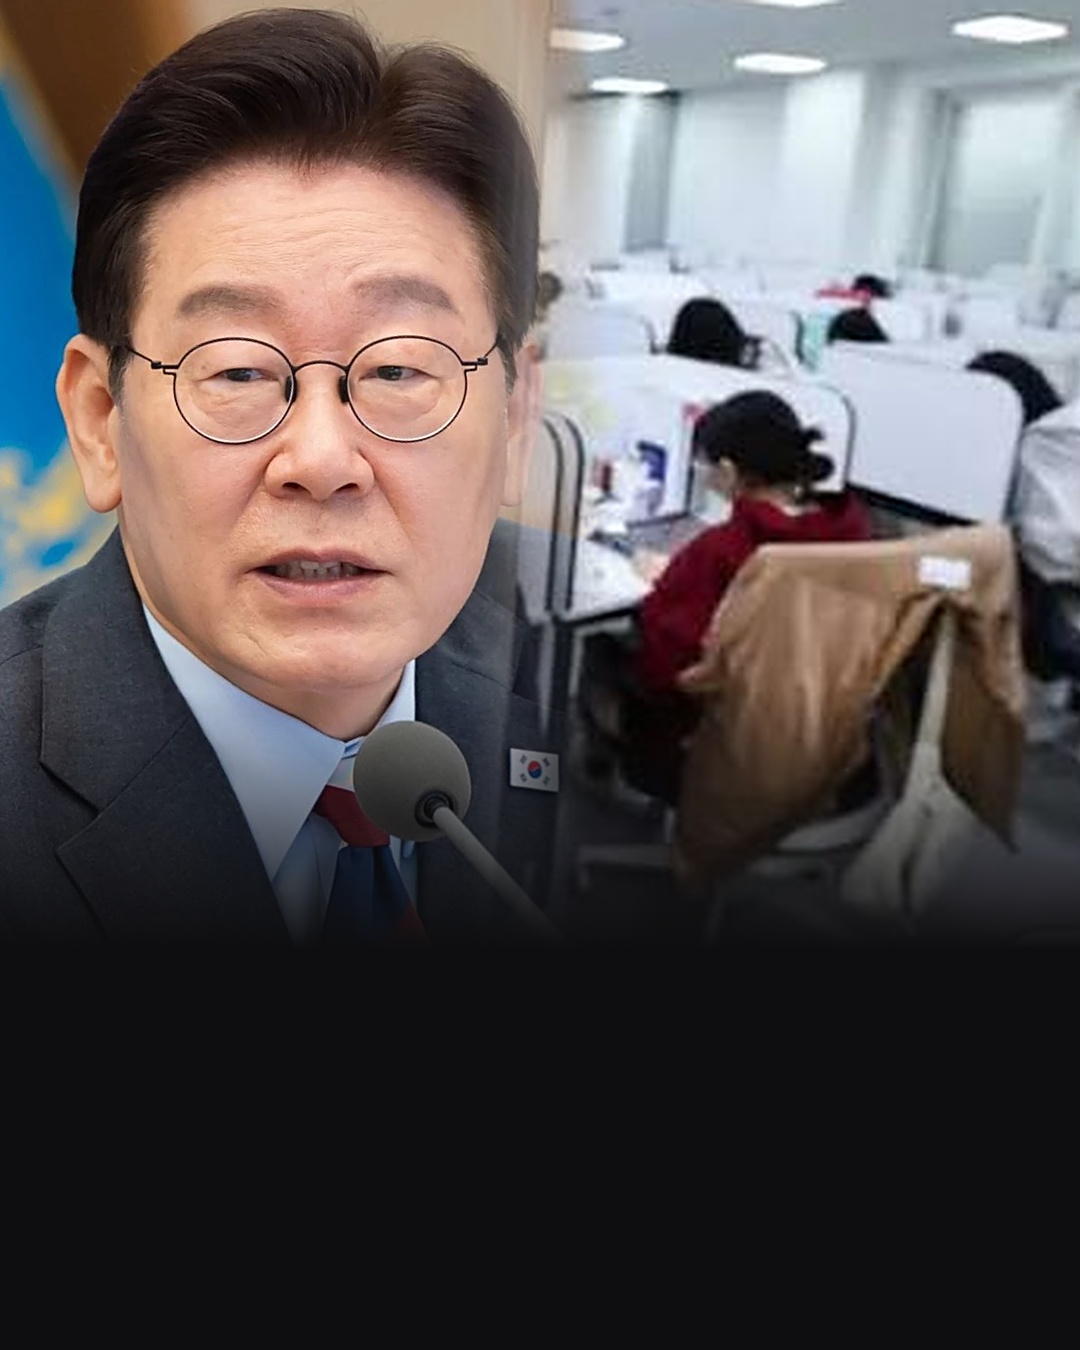
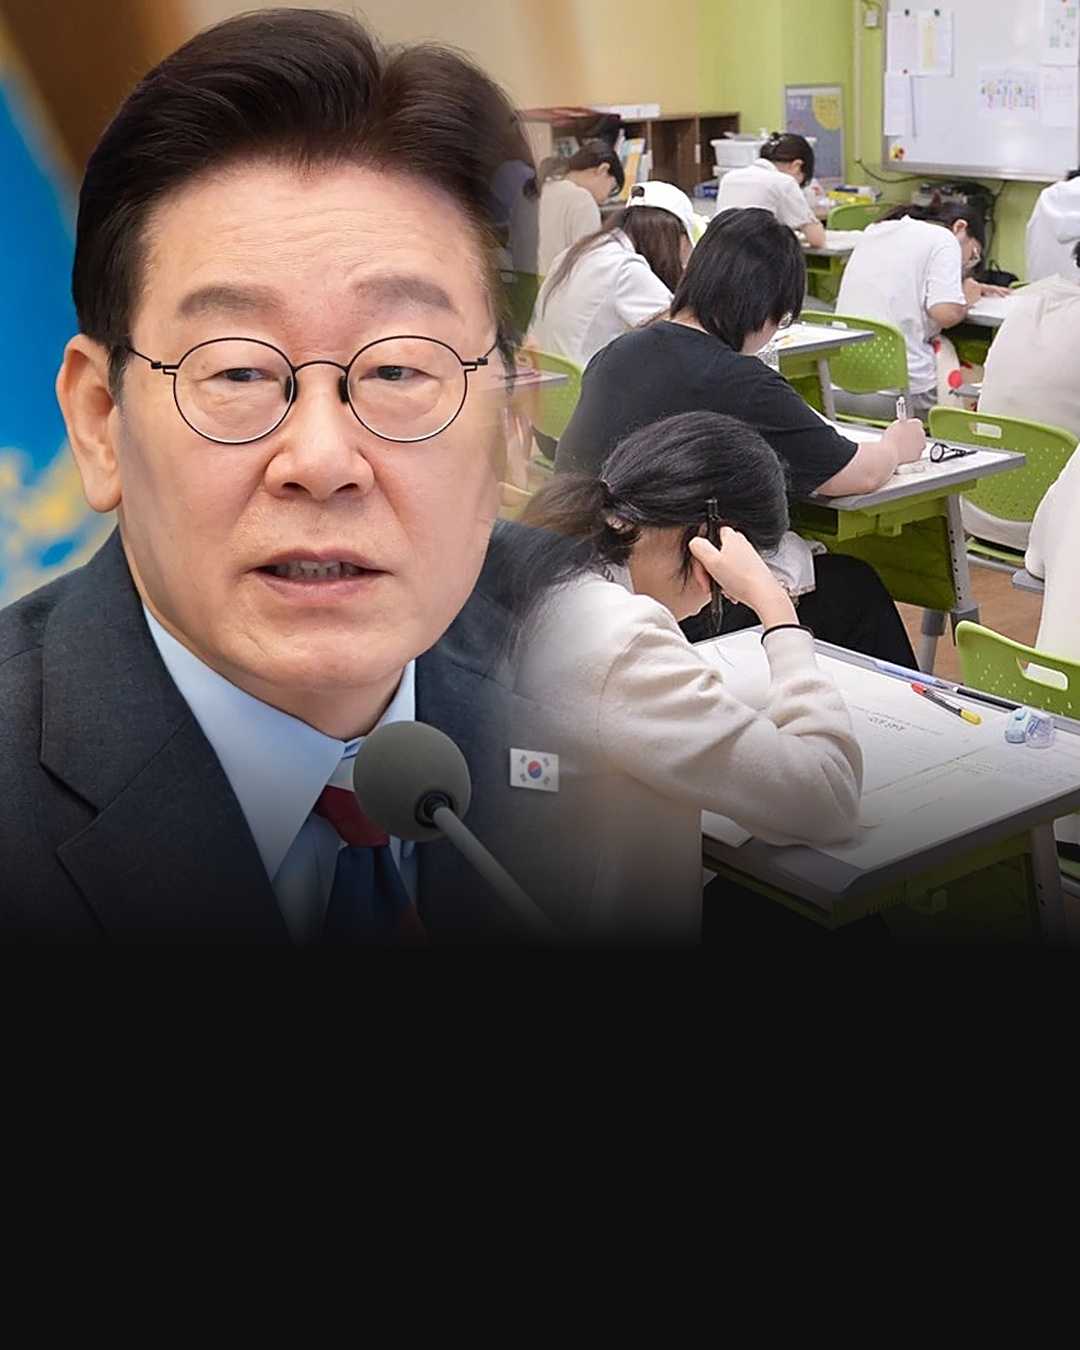
ljm 표지: 오른쪽 사용자 제공 시험 교실 사진
Claude-Session: https://claude.ai/code/session_01FGsw5QnWxFUsnopcB1Czie

diff --git a/media/20261117-ljm/build_card.py b/media/20261117-ljm/build_card.py
@@ -34,7 +34,7 @@ logo(im)  # 2장은 사용자 제공 트윗 캡처(cand/spec.json → scripts/po
 # D-7 사진 위쪽 '11월 12일(목)' 글씨는 이번 수능 날짜(19일)와 달라 잘라냄.
 from PIL import ImageFilter, ImageOps
 A = Image.open(Path(__file__).parent / "cand" / "user_photo3.jpg").convert("RGB")  # 2026-11-17 사용자 교체 사진(고화질)
-B = Image.open(Path(__file__).parent / "cand" / "user_d7.jpg").convert("RGB").crop((340, 20, 588, 322))  # 사용자: 팻말 말고 시험 보는 학생들 쪽
+B = Image.open(Path(__file__).parent / "cand" / "user_exam.jpg").convert("RGB").crop((230, 0, 800, 629))  # 사용자 제공: 교실에서 시험 보는 학생들
 TH = 950
 A = ImageOps.fit(A, (620, TH), Image.LANCZOS, centering=(.5, 0)).filter(ImageFilter.UnsharpMask(2, 60, 2))
 B = ImageOps.fit(B, (620, TH), Image.LANCZOS, centering=(.5, .5)).filter(ImageFilter.UnsharpMask(2, 60, 2))
